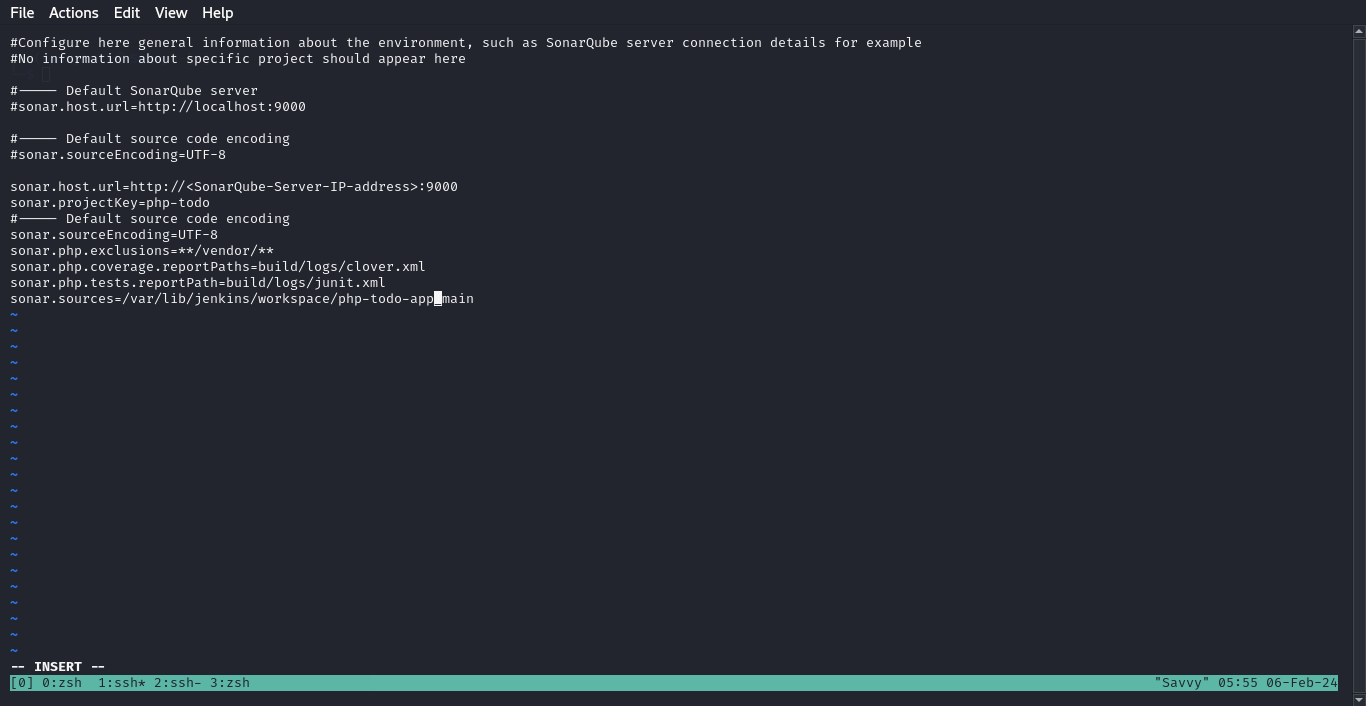
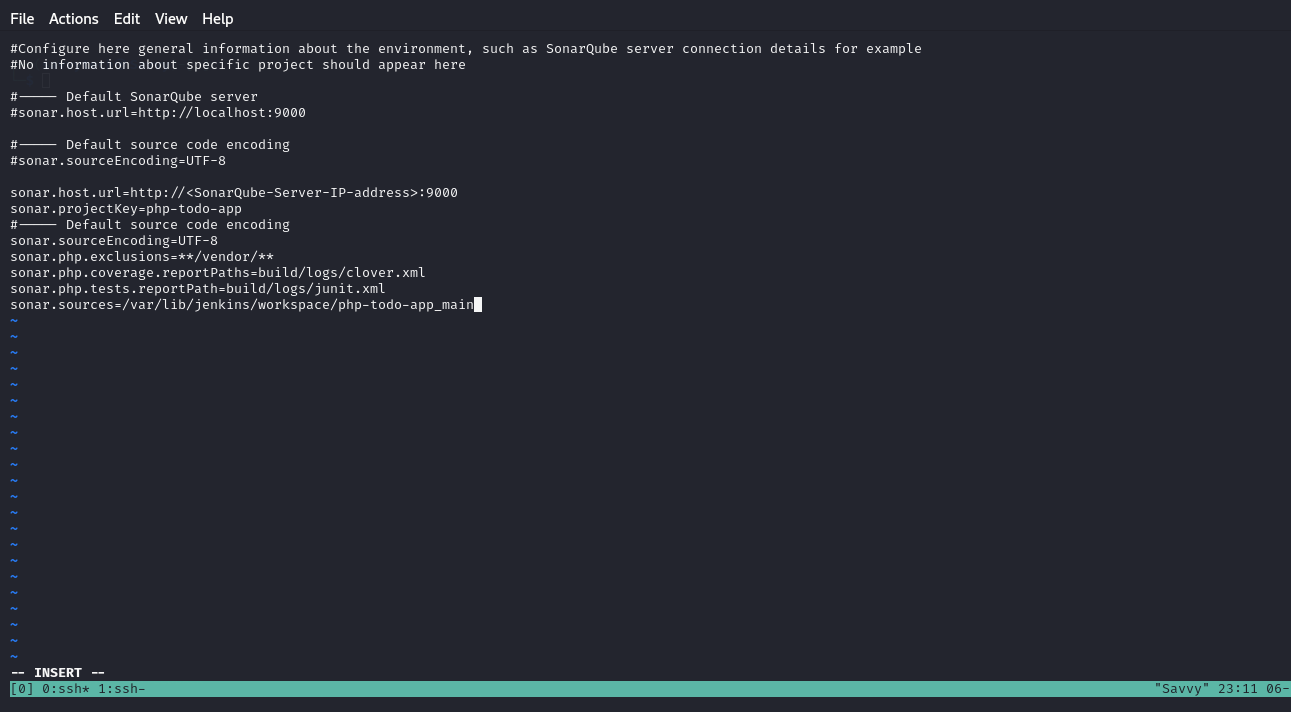
modified:   README.md

diff --git a/README.md b/README.md
@@ -1110,9 +1110,11 @@ It can also be achieved by making use of some Linux Kernel configuration changes
 
 * Update Jenkins Pipeline to include SonarQube scanning and Quality Gate. Below is the snippet for a Quality Gate stage in Jenkinsfile. The Quality gate should come in before you package the artifacts.
 
-NOTE: The above step will fail because we have not updated `sonar-scanner.properties`
+NOTE: The above step will fail because we have not updated `sonar-scanner.properties`. Although, at first, it failed because of version incompatibility, I had to change the sonarqube scanner to version 4.6.0.2311
 
 ![](./images/sonar-error.png)
+
+![](./images/sonarqube-scanner-version.png)
 
 * Configure sonar-scanner.properties – From the step above, Jenkins will install the scanner tool on the Linux server. You will need to go into the tools directory on the server to configure the properties file in which SonarQube will require to function during pipeline execution.
 
@@ -1128,5 +1130,17 @@ NOTE: The above step will fail because we have not updated `sonar-scanner.proper
 
  ![](./images/sonar-config-3.png)
 
-NB: I had to add the `sonar.sources=/var/lib/jenkins/workspace/php-todo_main` because the error from the previous screenshot showed that the source to the projectKey wasn't specified.
+NB: I had to add the `sonar.sources=/var/lib/jenkins/workspace/php-todo-app_main` because the error from the previous screenshot showed that the source to the projectKey wasn't specified.
+
+![](./images/sonar-successful.png)
+
+The quality gate we just included has no effect. Why? Well, because if you go to the SonarQube UI, you will realise that we just pushed a poor-quality code onto the development environment.
+
+* Navigate to php-todo project in SonarQube
+
+![](./images/sonar-project.png)
+
+There are two bugs, and there is 0.0% code coverage. (code coverage is a percentage of unit tests added by developers to test functions and objects in the code)
+
+If you click on php-todo project for further analysis, you will see that there is 6 hours’ worth of technical debt, code smells and security issues in the code.
 
